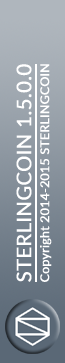
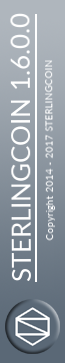
Update build number. Update splash. Correct testnet splash to function.

Changed region(s): [[0.1538, 0.0303, 0.4923, 0.7879], [0.6154, 0.1515, 0.8615, 0.7879], [0.5231, 0.0303, 0.5846, 0.1818]]

diff --git a/src/qt/bitcoin.cpp b/src/qt/bitcoin.cpp
@@ -200,7 +200,12 @@ int main(int argc, char *argv[])
         return 1;
     }
 
-    QSplashScreen splash(QPixmap(":/images/splash"), 0);
+    QString splashPath;
+    if (GetBoolArg("-testnet"))
+        splashPath=":/images/splash_testnet";
+    else
+        splashPath=":/images/splash";
+    QSplashScreen splash(QPixmap(splashPath), 0);
     if (GetBoolArg("-splash", true) && !GetBoolArg("-min"))
     {
         splash.show();

diff --git a/src/clientversion.h b/src/clientversion.h
@@ -9,7 +9,7 @@
 #define CLIENT_VERSION_MAJOR       1
 #define CLIENT_VERSION_MINOR       6
 #define CLIENT_VERSION_REVISION    0
-#define CLIENT_VERSION_BUILD       1
+#define CLIENT_VERSION_BUILD       0
 
 // Converts the parameter X to a string after macro replacement on X has been performed.
 // Don't merge these into one macro!
